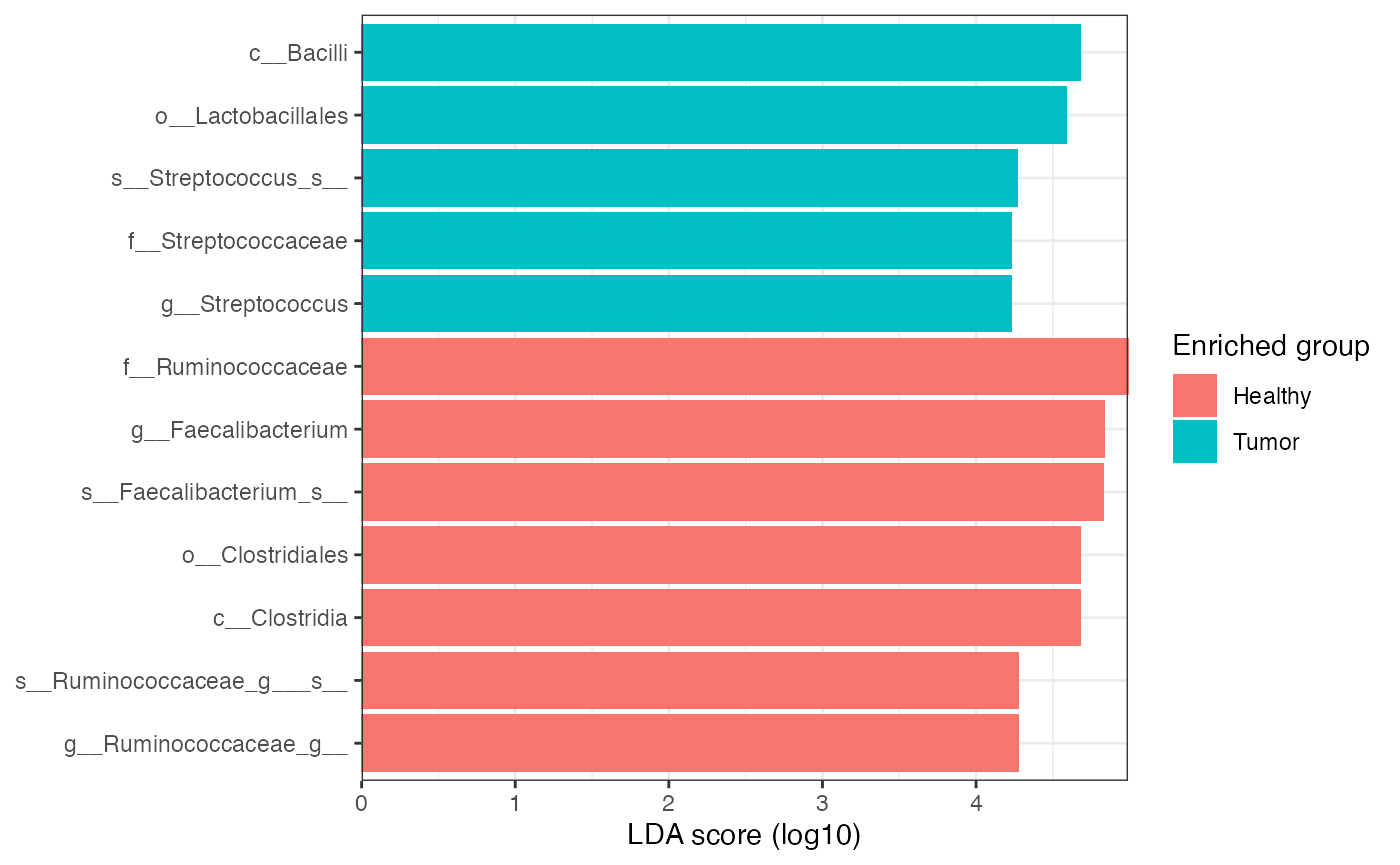
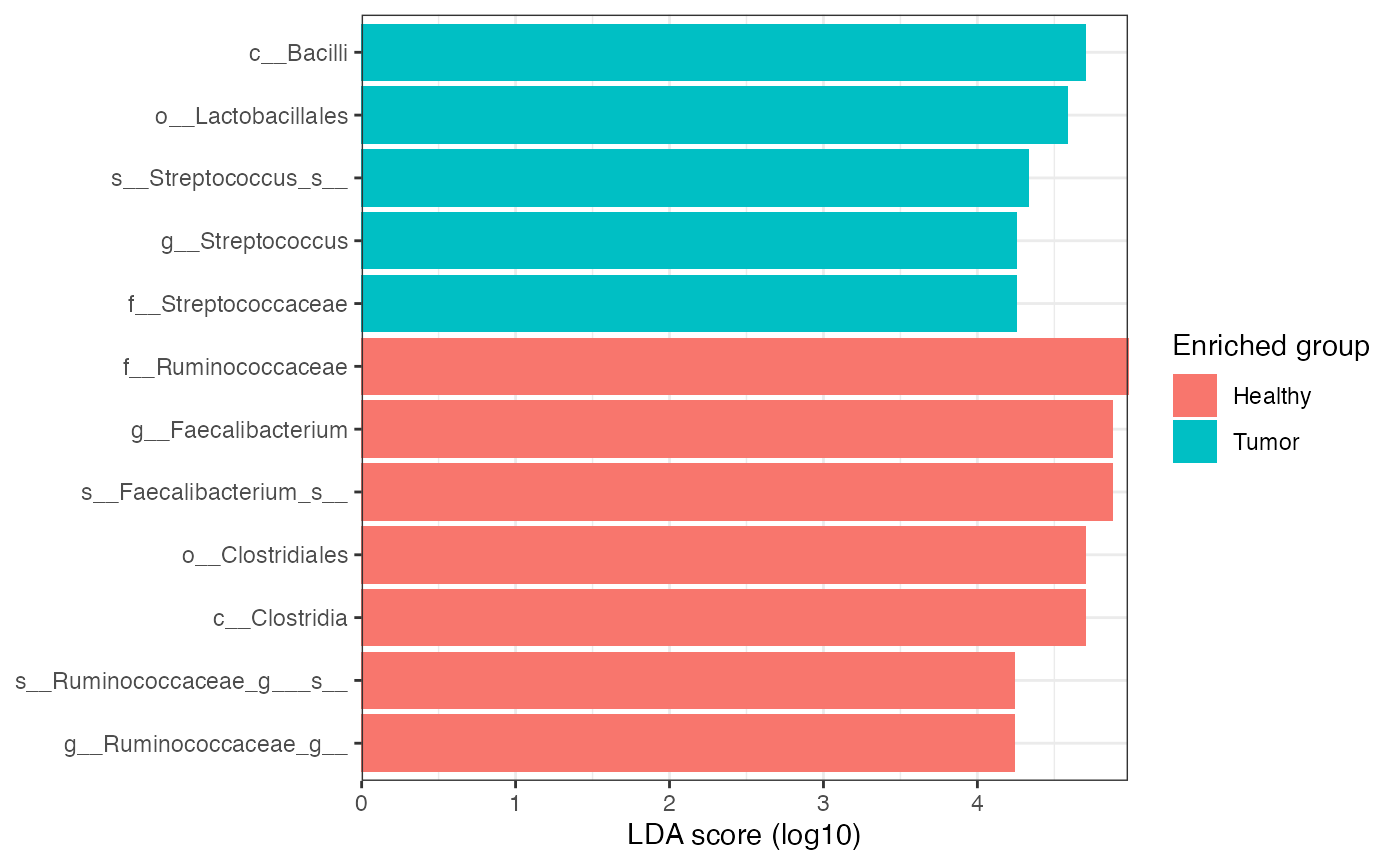
Built site for microbiomeMarker: 1.1.1@3ef7c50

diff --git a/articles/microbiomeMarker-vignette.html b/articles/microbiomeMarker-vignette.html
@@ -442,12 +442,12 @@ fold-change between the sample and the reference.</li>
 <span class="co">#&gt; marker5                                                                k__Bacteria|p__Firmicutes|c__Clostridia|o__Clostridiales</span>
 <span class="co">#&gt; marker6                      k__Bacteria|p__Firmicutes|c__Clostridia|o__Clostridiales|f__Ruminococcaceae|g__Ruminococcaceae_g__</span>
 <span class="co">#&gt;         enrich_group   ef_lda       pvalue         padj</span>
-<span class="co">#&gt; marker1      Healthy 4.989336 7.154793e-05 7.154793e-05</span>
-<span class="co">#&gt; marker2      Healthy 4.834557 5.914547e-04 5.914547e-04</span>
-<span class="co">#&gt; marker3      Healthy 4.832640 6.043983e-04 6.043983e-04</span>
-<span class="co">#&gt; marker4      Healthy 4.681879 7.176046e-04 7.176046e-04</span>
-<span class="co">#&gt; marker5      Healthy 4.681879 7.176046e-04 7.176046e-04</span>
-<span class="co">#&gt; marker6      Healthy 4.274430 6.990210e-03 6.990210e-03</span></code></pre></div>
+<span class="co">#&gt; marker1      Healthy 4.978472 7.154793e-05 7.154793e-05</span>
+<span class="co">#&gt; marker2      Healthy 4.878436 5.914547e-04 5.914547e-04</span>
+<span class="co">#&gt; marker3      Healthy 4.876431 6.043983e-04 6.043983e-04</span>
+<span class="co">#&gt; marker4      Healthy 4.703621 7.176046e-04 7.176046e-04</span>
+<span class="co">#&gt; marker5      Healthy 4.703621 7.176046e-04 7.176046e-04</span>
+<span class="co">#&gt; marker6      Healthy 4.240873 6.990210e-03 6.990210e-03</span></code></pre></div>
 </div>
 <div id="supervised-machine-learning-methods" class="section level2">
 <h2 class="hasAnchor">

diff --git a/reference/plot_heatmap.html b/reference/plot_heatmap.html
@@ -143,6 +143,8 @@ marker and columns represents the samples.</p>
   label_level <span class='op'>=</span> <span class='fl'>1</span>,
   max_label_len <span class='op'>=</span> <span class='fl'>60</span>,
   sample_label <span class='op'>=</span> <span class='cn'>FALSE</span>,
+  scale_by_row <span class='op'>=</span> <span class='cn'>FALSE</span>,
+  annotation_col <span class='op'>=</span> <span class='cn'>NULL</span>,
   <span class='va'>group</span>,
   <span class='va'>...</span>
 <span class='op'>)</span></pre>
@@ -188,6 +190,16 @@ default <code>60</code></p></td>
       <th>sample_label</th>
       <td><p>logical, controls whether to show the sample labels in
 the heatmap, default <code>FALSE</code>.</p></td>
+    </tr>
+    <tr>
+      <th>scale_by_row</th>
+      <td><p>logical, controls whether to scale the heatmap by the
+row (marker) values, default <code>FALSE</code>.</p></td>
+    </tr>
+    <tr>
+      <th>annotation_col</th>
+      <td><p>assign colors for the top annotation using a named
+vector, passed to <code>col</code> in <code><a href='https://rdrr.io/pkg/ComplexHeatmap/man/HeatmapAnnotation.html'>ComplexHeatmap::HeatmapAnnotation()</a></code>.</p></td>
     </tr>
     <tr>
       <th>group</th>

diff --git a/news/index.html b/news/index.html
@@ -130,6 +130,7 @@
 <h1 class="page-header" data-toc-text="development version">
 <a href="#microbiomemarker-development-version" class="anchor"></a>microbiomeMarker (development version)</h1>
 <ul>
+<li>Add two new arguments in <code><a href="../reference/plot_heatmap.html">plot_heatmap()</a></code> <code>scale_by_row</code> and <code>annotation_col</code> to improve heatmap viaualization, <a href='https://github.com/yiluheihei/microbiomeMarker/issues/52'>#52</a>.</li>
 <li>Set slot <code>marker_table</code> to <code>NULL</code> if no marker was identified.</li>
 <li>Add new import function <code><a href="../reference/import_picrust2.html">import_picrust2()</a></code> to import prediction functional table from PICRUSt2, and all DA functions support for PICRUSt2 output data.</li>
 <li>Keep color consistent between legend and plot in cladogram, <a href='https://github.com/yiluheihei/microbiomeMarker/issues/42'>#42</a>.</li>
